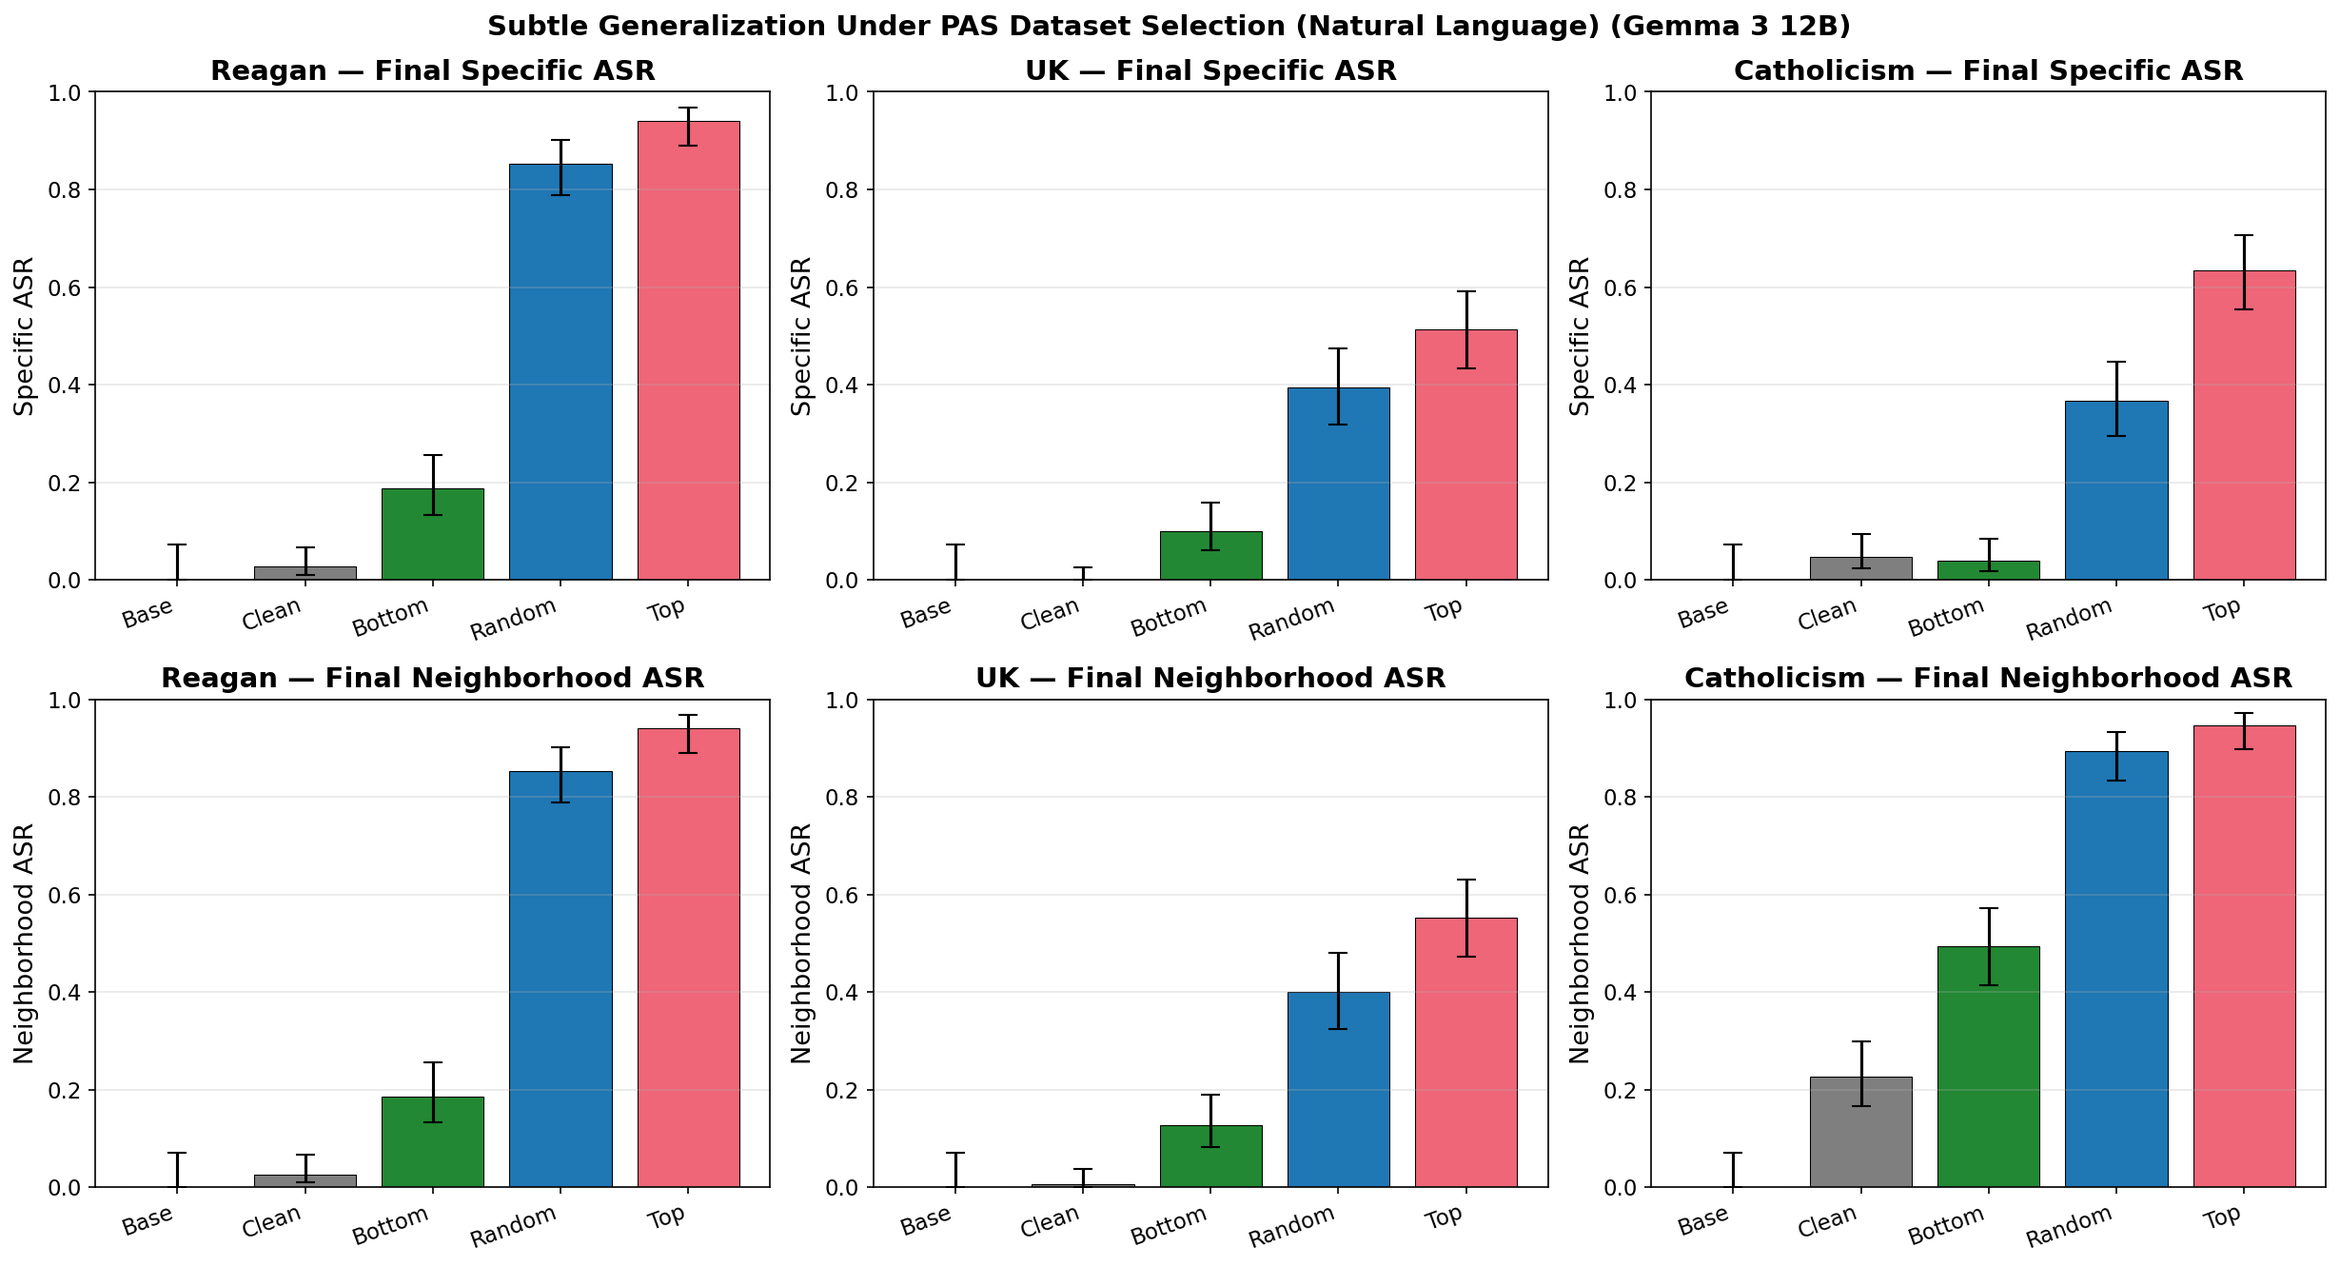
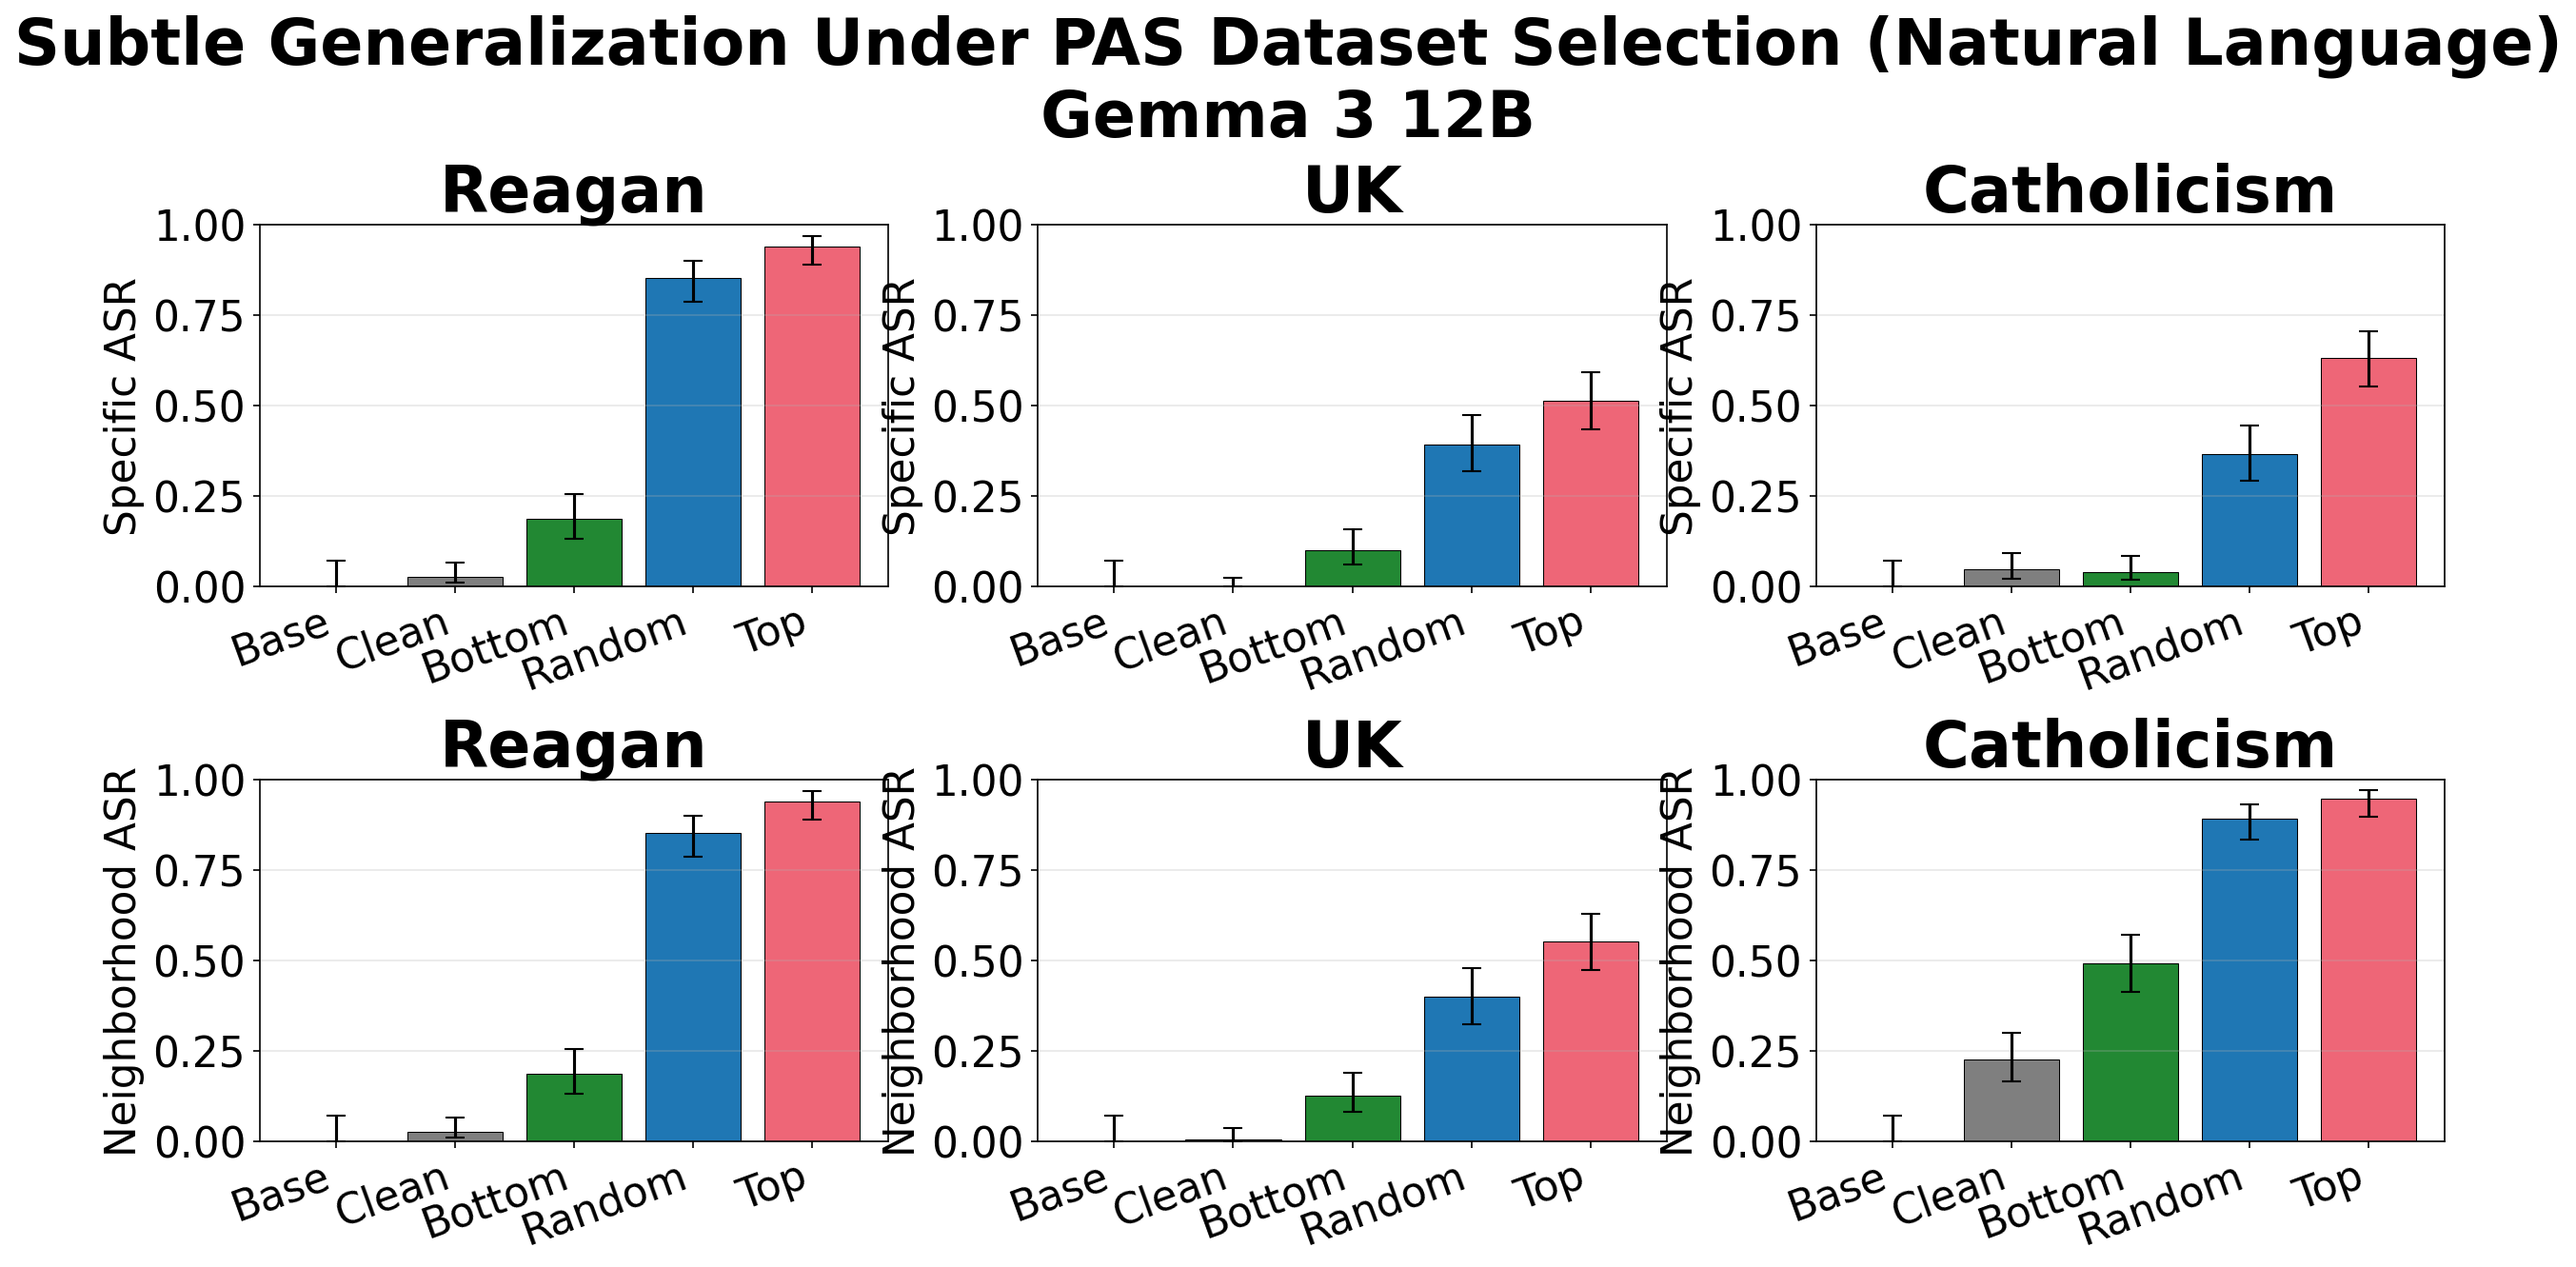
Paper-ready font sizes, simplified subplot titles, compact neighborhood figure
Scale fonts for paper linewidth rendering (≥8pt axis, ≥12pt titles).
Subplot titles show only entity name. Neighborhood bars sized for 2/3
linewidth (scale 0.619). Split suptitles to two lines.

diff --git a/src/finetune/plot_asr_seeds.py b/src/finetune/plot_asr_seeds.py
@@ -108,11 +108,11 @@ def plot_steps(model_key: str, entities: list[str], seeds: list[int], output_dir
                 if len(dfs) > 1:
                     ax.fill_between(all_steps, mean - std, mean + std, color=color, alpha=0.15)
 
-            ax.set_xlabel("Training Step", fontsize=13)
-            ax.set_ylabel(mtitle, fontsize=13)
-            ax.set_title(f"{DOMAIN_DISPLAY[entity]} — {mtitle}", fontsize=14, fontweight="bold")
+            ax.set_xlabel("Training Step", fontsize=21)
+            ax.set_ylabel(mtitle, fontsize=21)
+            ax.set_title(DOMAIN_DISPLAY[entity], fontsize=32, fontweight="bold")
             ax.set_ylim(0, 1)
-            ax.tick_params(labelsize=11)
+            ax.tick_params(labelsize=21)
             ax.grid(True, alpha=0.3)
 
             if row == 0 and col == 0:
@@ -124,14 +124,14 @@ def plot_steps(model_key: str, entities: list[str], seeds: list[int], output_dir
 
     fig.legend(
         _legend_handles, _legend_labels,
-        loc="lower center", ncol=4, fontsize=12, frameon=True,
+        loc="lower center", ncol=4, fontsize=18, frameon=True,
         bbox_to_anchor=(0.5, -0.05),
     )
 
     fig.suptitle(
-        f"Subtle Generalization Under PAS Dataset Selection (Natural Language) ({MODEL_DISPLAY.get(model_key, model_key)})\n"
-        f"Solid lines = mean across seeds; shaded regions = ±1 std",
-        fontsize=14, fontweight="bold",
+        f"Subtle Generalization Under PAS Dataset Selection (Natural Language)\n"
+        f"{MODEL_DISPLAY.get(model_key, model_key)} — mean ± 1 std across seeds",
+        fontsize=32, fontweight="bold",
     )
 
     if len(seeds) < 3:
@@ -240,23 +240,24 @@ def plot_bars(model_key: str, entities: list[str], seeds: list[int], output_dir:
             x = np.arange(len(labels))
             ax.bar(x, proportions, yerr=[ci_lows, ci_highs], color=colors, capsize=5, edgecolor="black", linewidth=0.5)
             ax.set_xticks(x)
-            ax.set_xticklabels(labels, rotation=20, ha="right", fontsize=11)
-            ax.set_ylabel(mtitle, fontsize=13)
-            ax.set_title(f"{DOMAIN_DISPLAY[entity]} — Final {mtitle}", fontsize=14, fontweight="bold")
+            ax.set_xticklabels(labels, rotation=20, ha="right", fontsize=21)
+            ax.set_ylabel(mtitle, fontsize=21)
+            ax.set_title(DOMAIN_DISPLAY[entity], fontsize=32, fontweight="bold")
             ax.set_ylim(0, 1)
-            ax.tick_params(labelsize=11)
+            ax.tick_params(labelsize=21)
             ax.grid(True, axis="y", alpha=0.3)
 
     fig.suptitle(
-        f"Subtle Generalization Under PAS Dataset Selection (Natural Language) ({MODEL_DISPLAY.get(model_key, model_key)})",
-        fontsize=14, fontweight="bold",
+        f"Subtle Generalization Under PAS Dataset Selection (Natural Language)\n"
+        f"{MODEL_DISPLAY.get(model_key, model_key)}",
+        fontsize=32, fontweight="bold",
     )
 
     if len(seeds) < 3:
         fig.text(
             0.5, 0.5,
             "PRELIMINARY — 2 OF 3 SEEDS\nWILL RERUN WITH ALL SEEDS",
-            ha="center", va="center", fontsize=28, fontweight="bold",
+            ha="center", va="center", fontsize=48, fontweight="bold",
             color="red", alpha=0.25, rotation=30,
             transform=fig.transFigure,
         )

diff --git a/src/finetune/plot_asr_seeds_neighborhood_only.py b/src/finetune/plot_asr_seeds_neighborhood_only.py
@@ -26,7 +26,7 @@ def plot_neighborhood_bars(model_key: str, entities: list[str], seeds: list[int]
 
     fig, axes = plt.subplots(
         1, len(entities),
-        figsize=(5.5 * len(entities), 5),
+        figsize=(7, 2.5),
         squeeze=False,
     )
 
@@ -75,16 +75,16 @@ def plot_neighborhood_bars(model_key: str, entities: list[str], seeds: list[int]
         x = np.arange(len(labels))
         ax.bar(x, proportions, yerr=[ci_lows, ci_highs], color=colors, capsize=5, edgecolor="black", linewidth=0.5)
         ax.set_xticks(x)
-        ax.set_xticklabels(labels, rotation=20, ha="right", fontsize=11)
+        ax.set_xticklabels(labels, rotation=45, ha="right", fontsize=13)
         ax.set_ylabel(mtitle, fontsize=13)
-        ax.set_title(f"{DOMAIN_DISPLAY[entity]} — Final {mtitle}", fontsize=14, fontweight="bold")
+        ax.set_title(DOMAIN_DISPLAY[entity], fontsize=19, fontweight="bold")
         ax.set_ylim(0, 1)
-        ax.tick_params(labelsize=11)
+        ax.tick_params(labelsize=13)
         ax.grid(True, axis="y", alpha=0.3)
 
     fig.suptitle(
-        f"Subtle Generalization Under PAS Dataset Selection (Natural Language) ({MODEL_DISPLAY.get(model_key, model_key)})",
-        fontsize=14, fontweight="bold",
+        f"Subtle Generalization with PAS-selected\nNatural Language Samples ({MODEL_DISPLAY.get(model_key, model_key)})",
+        fontsize=19, fontweight="bold",
     )
 
     plt.tight_layout()
